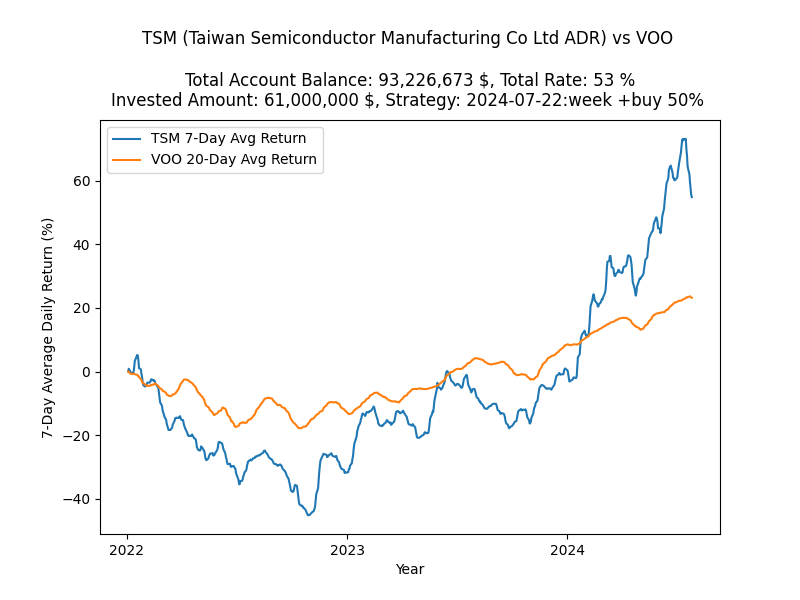
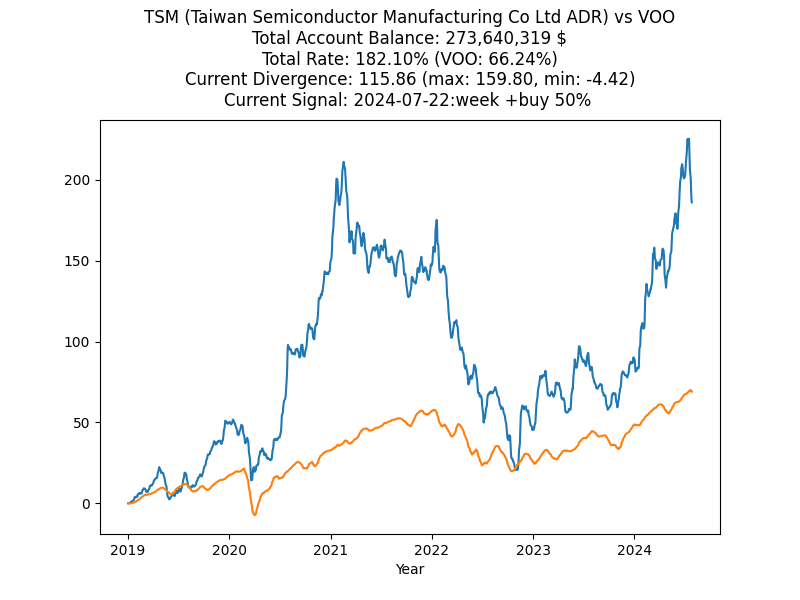
Auto-commit moved files

diff --git a/my-flask-app/Results_plot.py b/my-flask-app/Results_plot.py
@@ -38,38 +38,49 @@ def load_image(file_path):
 def plot_comparison_results(file_path1, file_path2, stock1, stock2, total_account_balance, total_rate, str_strategy, invested_amount, min_stock_data_date):
     fig, ax2 = plt.subplots(figsize=(8, 6))
 
-    df1 = pd.read_csv(file_path1, parse_dates=['Date'], index_col='Date')
-    df2 = pd.read_csv(file_path2, parse_dates=['Date'], index_col='Date')
+    # 전체 데이터셋 파일 경로
+    full_path1 = os.path.abspath(file_path1)
+    full_path2 = os.path.abspath(file_path2)
+    print(f"Reading full dataset for graph from: {full_path1} and {full_path2}")
+
+    # 그래프용 데이터프레임 로드 (전체 자료)
+    df1_graph = pd.read_csv(full_path1, parse_dates=['Date'], index_col='Date')
+    df2_graph = pd.read_csv(full_path2, parse_dates=['Date'], index_col='Date')
+
+    # 간략화된 데이터프레임 로드 (이격 결과)
+    simplified_df_path1 = os.path.join(os.path.dirname(full_path1), 'static', 'images', f'result_{stock1}.csv')
+    print(f"Attempting to read simplified dataset for divergence from: {simplified_df_path1}")
+
+    try:
+        df1 = pd.read_csv(simplified_df_path1, parse_dates=['Date'], index_col='Date')
+    except FileNotFoundError as e:
+        print(f"Error: {e}")
+        raise
 
     start_date = min_stock_data_date
-    end_date = min(df1.index.max(), df2.index.max())
+    end_date = min(df1_graph.index.max(), df2_graph.index.max())
 
-    df1 = df1.loc[start_date:end_date]
-    df2 = df2.loc[start_date:end_date]
+    df1_graph = df1_graph.loc[start_date:end_date]
+    df2_graph = df2_graph.loc[start_date:end_date]
 
-    df1['rate_7d_avg'] = df1['rate'].rolling('7D').mean()
-    df2['rate_20d_avg'] = df2['rate_vs'].rolling('20D').mean()
+    df1_graph['rate_7d_avg'] = df1_graph['rate'].rolling('7D').mean()
+    df2_graph['rate_20d_avg'] = df2_graph['rate_vs'].rolling('20D').mean()
 
-    ax2.plot(df1.index, df1['rate_7d_avg'], label=f'{stock1} 7-Day Avg Return')
-    ax2.plot(df2.index, df2['rate_20d_avg'], label=f'{stock2} 20-Day Avg Return')
+    ax2.plot(df1_graph.index, df1_graph['rate_7d_avg'], label=f'{stock1} 7-Day Avg Return')
+    ax2.plot(df2_graph.index, df2_graph['rate_20d_avg'], label=f'{stock2} 20-Day Avg Return')
 
-    voo_rate = df2['rate_vs'].iloc[-1] if not df2.empty else 0
+    voo_rate = df2_graph['rate_vs'].iloc[-1] if not df2_graph.empty else 0
 
     max_divergence = df1['Divergence'].max()
     min_divergence = df1['Divergence'].min()
     current_divergence = df1['Divergence'].iloc[-1]
     relative_divergence = df1['Relative_Divergence'].iloc[-1]
 
-    # 데이터프레임에서 가장 마지막 줄의 신호를 가져옵니다.
-    last_signal_data = df1.iloc[-1]
-    last_signal = last_signal_data.name  # 인덱스에 해당하는 날짜
-    last_signal_value = last_signal_data['Signal']  # 마지막 신호 값 (Signal 열이 존재한다고 가정)
-    current_signal = df1['Signal'].iloc[-1] if 'Signal' in df1.columns else 'N/A'
-
     plt.title(f"{stock1} ({get_ticker_name(stock1)}) vs {stock2}\n" +
-              f"Total Rate: {total_rate:.2f}% (VOO: {voo_rate:.2f}%, Rel: {relative_divergence:.2f}%)\n" +
+              f"Total Account Balance: {total_account_balance:,.0f} $\n" +
+              f"Total Rate: {total_rate:.2f}% (VOO: {voo_rate:.2f}%)\n" +
               f"Current Divergence: {current_divergence:.2f} (max: {max_divergence:.2f}, min: {min_divergence:.2f})\n" +
-              f"Current Signal: {current_signal}, Last Signal: {last_signal}: {last_signal_value}",
+              f"Current Signal: {str_strategy}",
               pad=10)
 
     ax2.xaxis.set_major_locator(dates.YearLocator())
@@ -82,12 +93,12 @@ def plot_comparison_results(file_path1, file_path2, stock1, stock2, total_accoun
     plt.clf()
     plt.close(fig)
 
-    # Discord 메시지 전송
+    # Discord 메시지
     DISCORD_WEBHOOK_URL = os.getenv('DISCORD_WEBHOOK_URL')
     message = f"Stock: {stock1} ({get_ticker_name(stock1)}) vs {stock2}\n" \
-              f"Total Rate: {total_rate:.2f}% (VOO: {voo_rate:.2f}%, Rel: {relative_divergence:.2f}%)\n" \
+              f"Total Rate: {total_rate:.2f}% (VOO: {voo_rate:.2f}%)\n" \
               f"Current Divergence: {current_divergence:.2f} (max: {max_divergence:.2f}, min: {min_divergence:.2f})\n" \
-              f"Current Signal: {current_signal}, Last Signal: {last_signal}: {last_signal_value}"
+              f"Current Signal: {str_strategy}"
     response = requests.post(DISCORD_WEBHOOK_URL, data={'content': message})
 
     if response.status_code != 204:
@@ -97,6 +108,8 @@ def plot_comparison_results(file_path1, file_path2, stock1, stock2, total_accoun
 
     files = {'file': open(save_path, 'rb')}
     response = requests.post(DISCORD_WEBHOOK_URL, files=files)
+
+
 
 
 async def plot_results_all():
